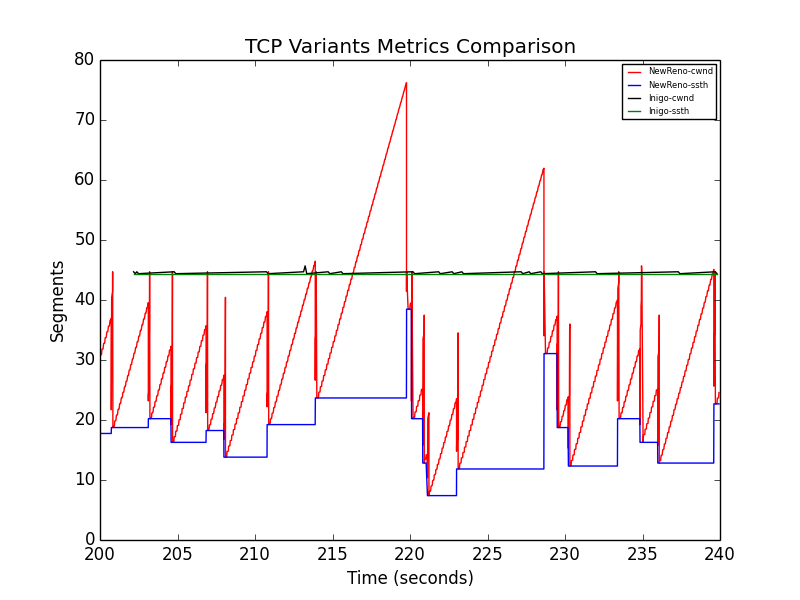
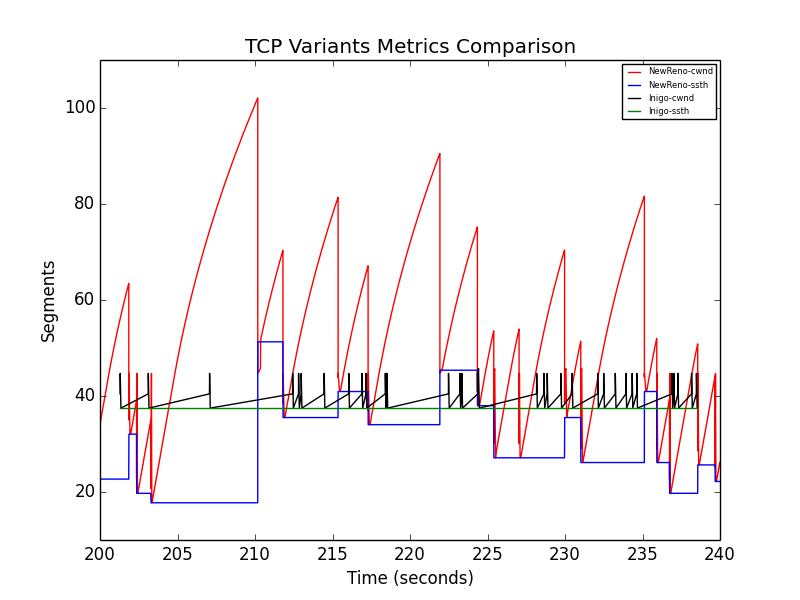
some adjustments - good plot

diff --git a/inigo_test_results/repeatValidationPaper/repeatVariants.cc b/inigo_test_results/repeatValidationPaper/repeatVariants.cc
@@ -176,8 +176,8 @@ int main (int argc, char *argv[])
   double error_p = 0.001;
   std::string bandwidth = "10Mbps";
   std::string delay = "25ms";
-  std::string access_bandwidth = "10Mbps";
-  std::string access_delay = "25ms";
+  std::string access_bandwidth = "100Mbps";
+  std::string access_delay = "1ns";
   bool tracing = false;
   std::string prefix_file_name = "TcpVariantsComparison";
   double data_mbytes = 0;
@@ -241,14 +241,14 @@ int main (int argc, char *argv[])
   //Config::SetDefault ("ns3::TcpSocket::SndBufSize", UintegerValue (500000000));
 
   //configs from orig
-  Config::SetDefault ("ns3::TcpSocket::InitialSlowStartThreshold", UintegerValue(10*mtu_bytes));
+  //Config::SetDefault ("ns3::TcpSocket::InitialSlowStartThreshold", UintegerValue(10*mtu_bytes));
   Config::SetDefault ("ns3::TcpSocket::InitialSlowStartThreshold", UintegerValue(8621440*2));
   Config::SetDefault ("ns3::TcpSocket::InitialCwnd", UintegerValue(10));
   Config::SetDefault ("ns3::TcpSocket::SegmentSize", UintegerValue (tcp_adu_size));
   Config::SetDefault ("ns3::TcpSocket::DelAckCount", UintegerValue (1));
   Config::SetDefault ("ns3::TcpSocket::SndBufSize", UintegerValue (8621440)); // *Bytes*
   Config::SetDefault ("ns3::TcpSocket::RcvBufSize", UintegerValue (8621440)); // *Bytes*
-  Config::SetDefault ("ns3::DropTailQueue::MaxPackets",    UintegerValue (queue_size));
+  //Config::SetDefault ("ns3::DropTailQueue::MaxPackets",    UintegerValue (pkts));
 
   // Select TCP variant
   if (transport_prot.compare ("TcpNewReno") == 0)
@@ -321,10 +321,10 @@ int main (int argc, char *argv[])
   //Config::SetDefault ("ns3::DropTailQueue::Mode", EnumValue (DropTailQueue::QUEUE_MODE_PACKETS));
   //Config::SetDefault ("ns3::CoDelQueue::Mode", EnumValue (CoDelQueue::QUEUE_MODE_PACKETS));
 
-  uint32_t size = (std::min (access_b, bottle_b).GetBitRate () / 8) *
-    ((access_d + bottle_d) * 2).GetSeconds ();
+  //uint32_t size = (std::min (access_b, bottle_b).GetBitRate () / 8) *
+  //  ((access_d + bottle_d) * 2).GetSeconds ();
 
-  uint32_t pkts = 100;
+  uint32_t pkts = 3075; //based on formula in shell script
   //uint32_t size = pkts*tcp_adu_size;
 
   for (int i = 0; i < num_flows; i++)
